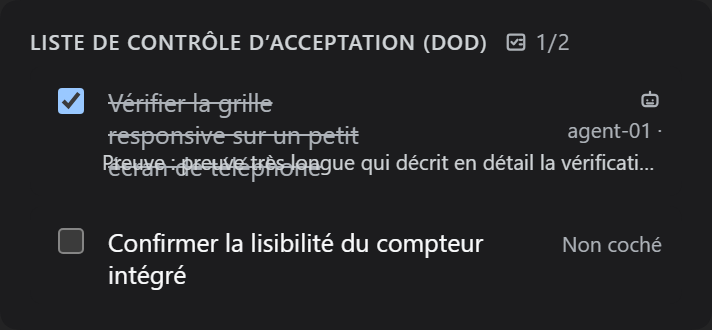
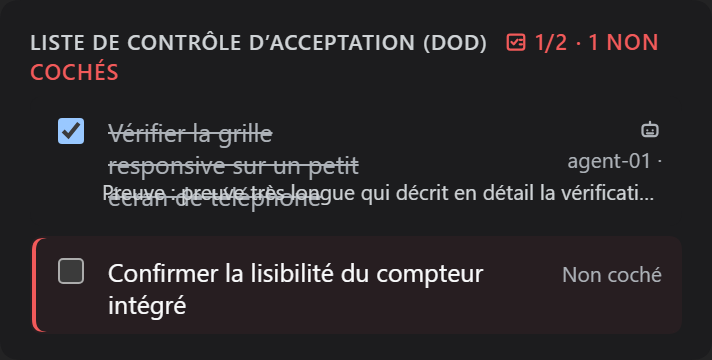
fix(ui): show the acceptance checklist above the execution report

diff --git a/src/client/board/TaskDetail.tsx b/src/client/board/TaskDetail.tsx
@@ -1037,6 +1037,10 @@ export function TaskDetail({ task, controller, now }: { task: TaskRecord; contro
 
       {(isReviewOrDone || hasReport) && (
         <>
+          {/* The acceptance checklist comes before the execution report: it is
+              the gate the reader opens the task for, and on a phone the drawer
+              is short enough that anything below the report starts off-screen. */}
+          <ChecklistBlock task={task} controller={controller} />
           <ReportBlock task={task} />
           {task.executions.slice(0, -1).some(e => e.report !== undefined) && (
             <details className="dsh-atb-fieldcard" data-kind="report-history">
@@ -1046,7 +1050,6 @@ export function TaskDetail({ task, controller, now }: { task: TaskRecord; contro
               ))}
             </details>
           )}
-          <ChecklistBlock task={task} controller={controller} />
         </>
       )}
 
@@ -1070,8 +1073,8 @@ export function TaskDetail({ task, controller, now }: { task: TaskRecord; contro
 
       {!isReviewOrDone && !hasReport && (
         <>
-          <ReportBlock task={task} />
           <ChecklistBlock task={task} controller={controller} />
+          <ReportBlock task={task} />
         </>
       )}
 

diff --git a/docs/design/MOBILE-FOCUS-SWIPE-IMPLEMENTATION.md b/docs/design/MOBILE-FOCUS-SWIPE-IMPLEMENTATION.md
@@ -225,6 +225,26 @@ still resolves to exactly 280 px on a 1048 px row. Pinned by
 `tests/checklist-layout.spec.ts` (the CSS determinants) and by
 `scripts/qa/detail-audit.mjs` (the real geometry, portrait + desktop).
 
+### 4.4 Fixed on the way: the checklist fell below the sheet
+
+Follow-up report: "the acceptance checklist is no longer visible on my phone".
+Measured with `detail-audit.mjs` on a task that has a checklist, the block was
+*rendered* but the drawer only shows its first ~270–709 px, and the checklist sat
+**after** the execution report — so on a small portrait phone or in landscape it
+started below the visible sheet:
+
+| Shape | Before the reorder | After |
+| --- | --- | --- |
+| 390×844 portrait | 137 px above the fold | 432 px above |
+| 360×640 portrait | **58 px below the fold** | 237 px above |
+| 412×915 portrait | 224 px above | 519 px above |
+| 844×390 landscape | **124 px below the fold** | 86 px above |
+
+Fix: in the review/done section (and in the fallback branch) the **acceptance
+checklist now comes before the execution report** — it is the gate the reader
+opens the task for, and the report can be long. Nothing is hidden or collapsed:
+the sheet still scrolls, the block is simply on screen in every phone shape.
+
 ### 4.4 Honest limits
 
 * Synthetic touch **scrolling** cannot be produced in this headless Chromium
